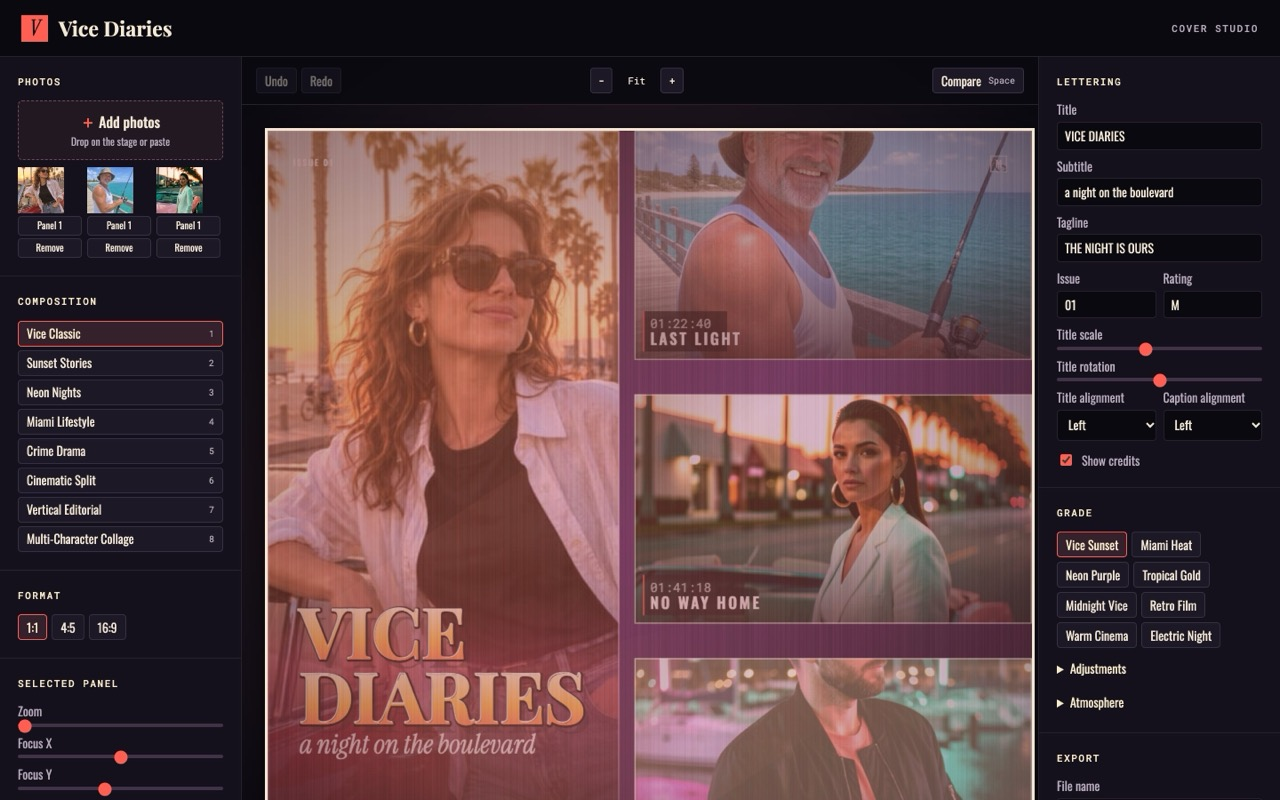
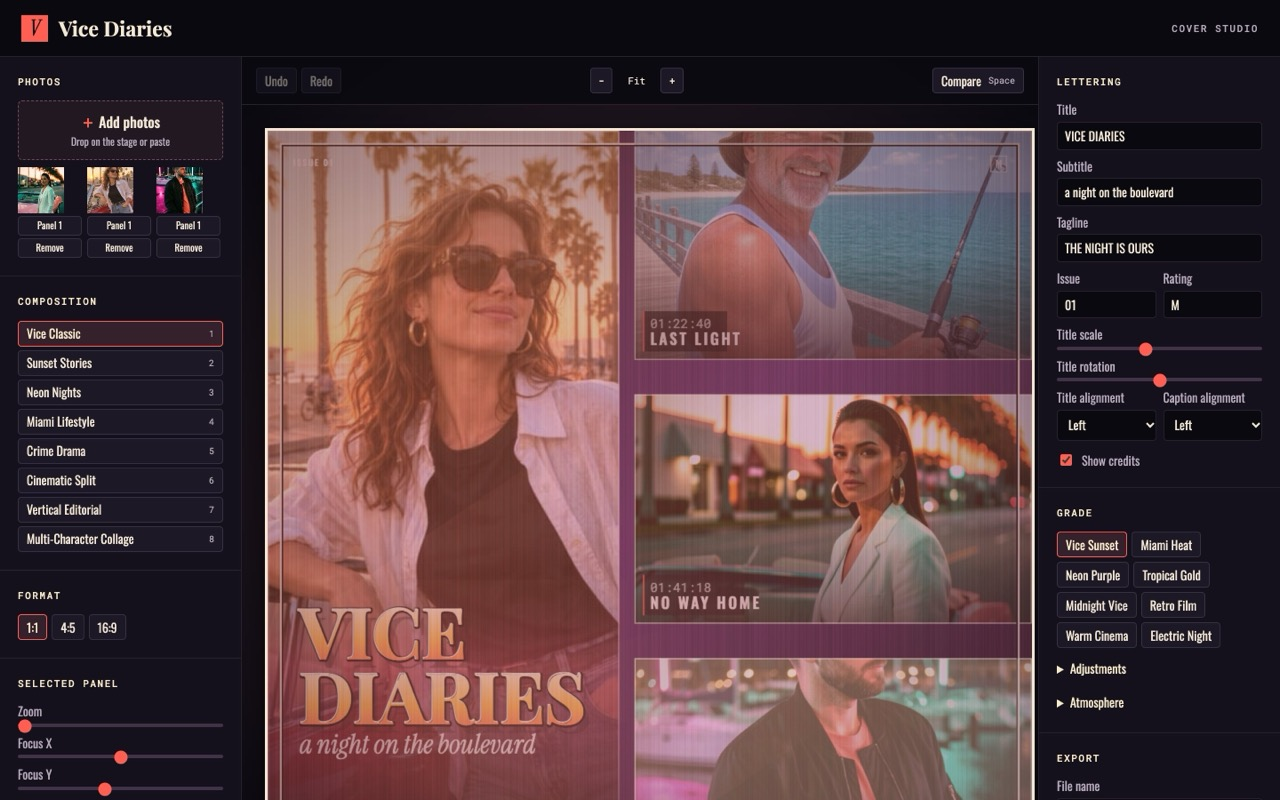
Unify the grade across panels, ink-bleed print frame, reshoot screenshots and README badges

diff --git a/app/src/cover-render.js b/app/src/cover-render.js
@@ -290,6 +290,35 @@ function unifyPass(ctx, w, h, grade) {
   ctx.restore();
 }
 
+function inkFrame(ctx, w, h) {
+  const inset = Math.max(8, Math.round(Math.min(w, h) * 0.018));
+  const bleed = 2;
+  ctx.save();
+  ctx.strokeStyle = CREAM;
+  ctx.lineWidth = 3;
+  ctx.strokeRect(inset, inset, w - inset * 2, h - inset * 2);
+  ctx.strokeStyle = INK;
+  ctx.lineWidth = bleed;
+  ctx.strokeRect(inset + 2, inset + 2, w - (inset + 2) * 2, h - (inset + 2) * 2);
+  ctx.restore();
+}
+
+function warmTitleLift(ctx, zone) {
+  if (!zone || zone.w < 4 || zone.h < 4) return;
+  const padX = zone.w * 0.04;
+  const padY = zone.h * 0.08;
+  const x = zone.x - padX;
+  const y = zone.y - padY;
+  const bw = zone.w + padX * 2;
+  const bh = zone.h + padY * 2;
+  ctx.save();
+  ctx.globalCompositeOperation = 'screen';
+  ctx.fillStyle = AMBER;
+  ctx.globalAlpha = 0.03;
+  ctx.fillRect(x, y, bw, bh);
+  ctx.restore();
+}
+
 function layoutChrome(ctx, layout, state, w, h, scale) {
   const id = layout.id;
   if (id === 'vice-classic') {
@@ -475,7 +504,11 @@ export async function renderCover(ctx, state, opts = {}) {
     drawPanelCaption(ctx, spec, { ...rect, scale }, { scale, align: state.captionAlign || 'left' });
   });
 
-  if (!opts.skipLettering) letteringPass(ctx, layout, state, w, h, scale);
+  if (!opts.skipLettering) {
+    warmTitleLift(ctx, placedZone(layout, w, h, scale));
+    letteringPass(ctx, layout, state, w, h, scale);
+  }
+  inkFrame(ctx, w, h);
 
   if (layout.id !== 'miami-lifestyle') {
     const barW = px(132, scale);

diff --git a/README.md b/README.md
@@ -2,4 +2,6 @@
 [![rank](https://make.fun/badge/gta6-cover-art-01/Lolod17/vice-diaries/rank.svg)](https://make.fun/bounty/gta6-cover-art-01)
 [![reward](https://make.fun/badge/gta6-cover-art-01/Lolod17/vice-diaries/reward.svg)](https://make.fun/bounty/gta6-cover-art-01)
 
+Built from a written specification in a recorded agent session.
+
 Vice Diaries is a static cover-art studio: load photos, pick one of eight poster compositions, grade them as one film, and export a PNG. Run it with `python3 -m http.server --directory app`, then open http://127.0.0.1:8000. Export sizes are 1080x1080, 1080x1350, and 1920x1080. It works offline and never uploads a photo. MIT licence. Bounty: https://make.fun/bounty/gta6-cover-art-01
